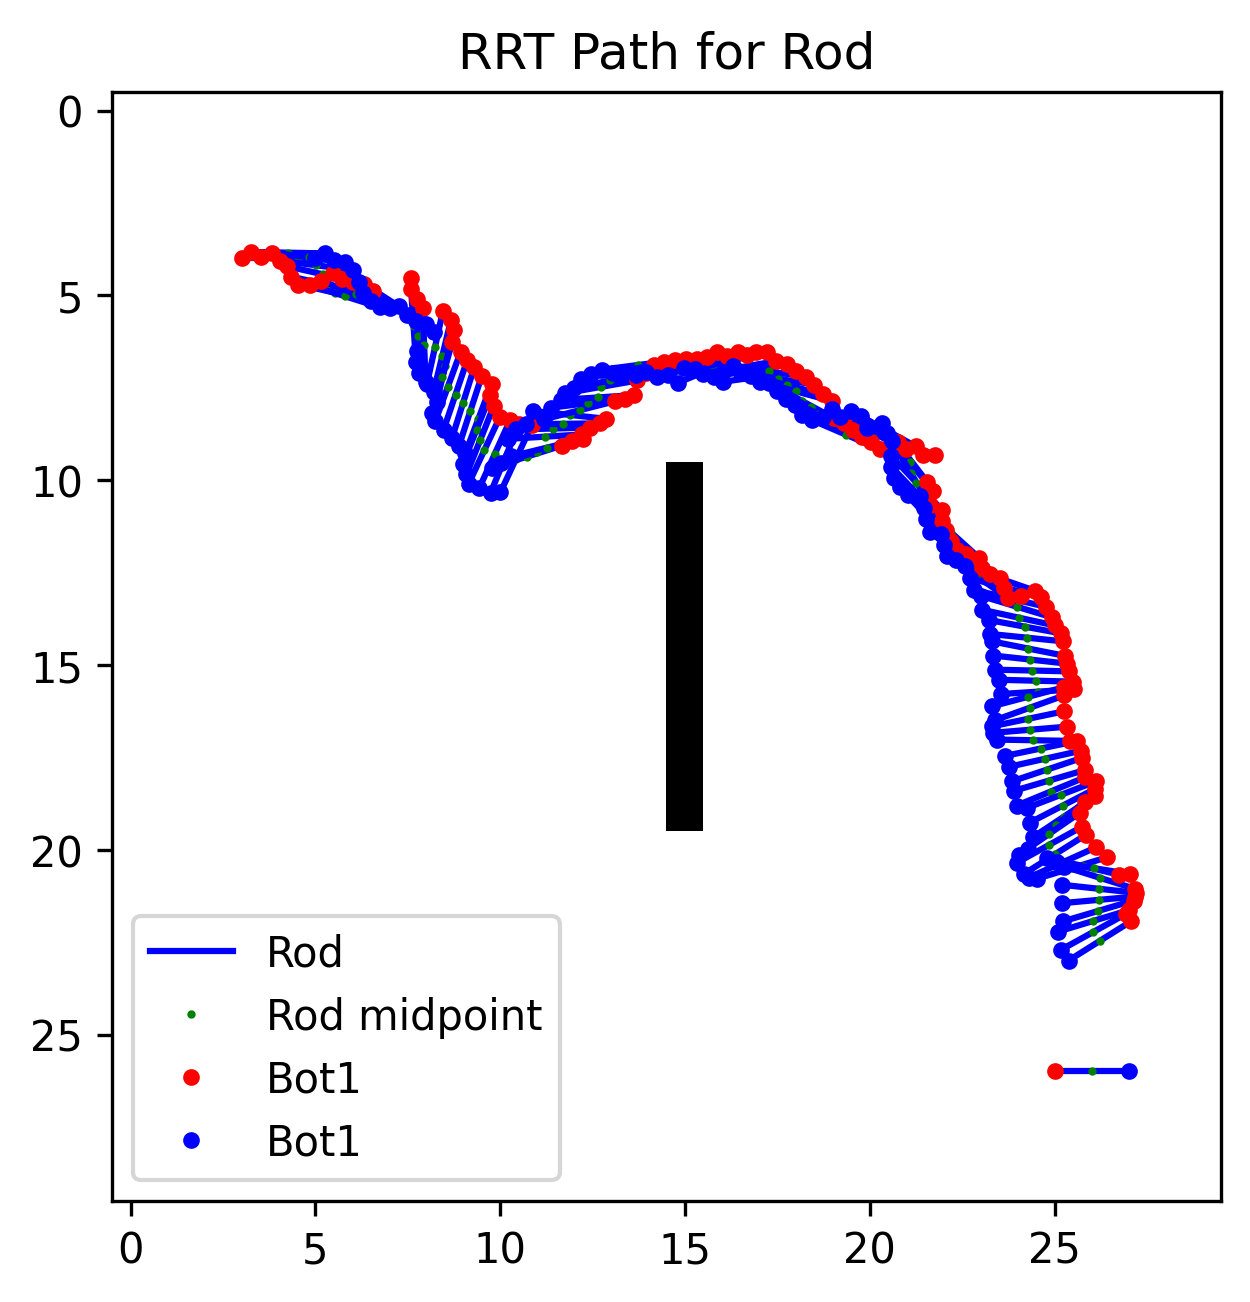
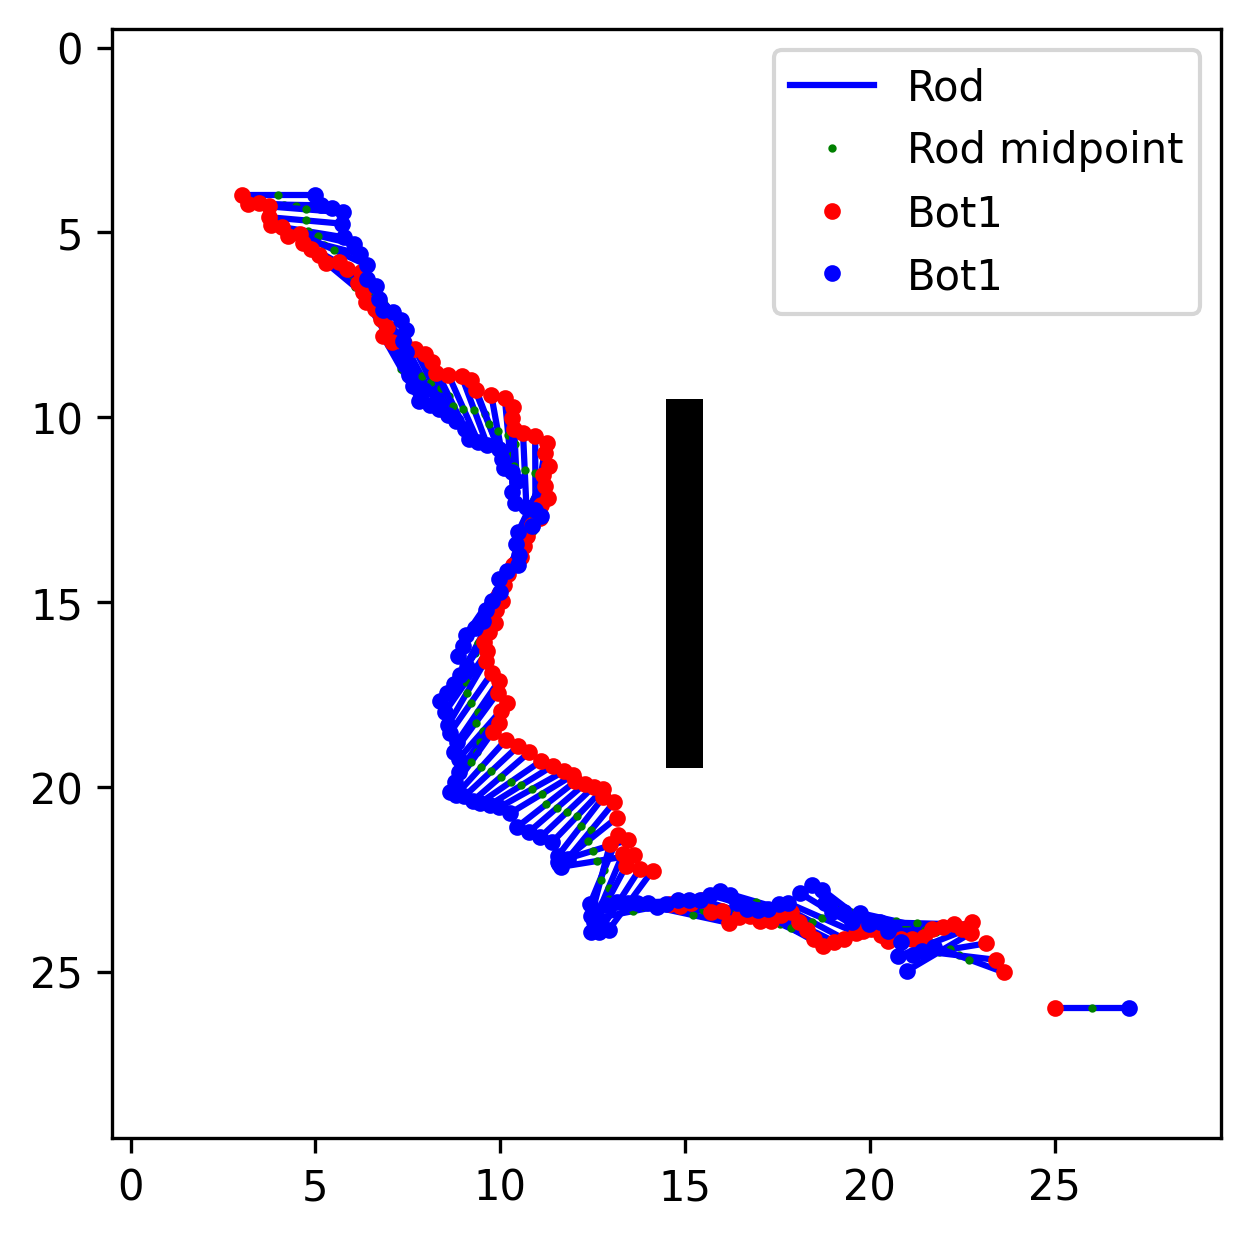
new result

diff --git a/main.py b/main.py
@@ -71,7 +71,7 @@ if __name__ == '__main__':
     for i, (x, y, _) in enumerate(bot2_path):
         plt.plot(x, y, 'b.', label='Bot1' if i == 0 else "")
 
-    plt.title("RRT Path for Rod")
+    # plt.title("RRT Path for Rod")
     plt.legend()
     plt.savefig(output_path, dpi=300, bbox_inches='tight')
     print(f'[[Log]] RRT is done. The figure showing the planned path can be find at {output_path}')
